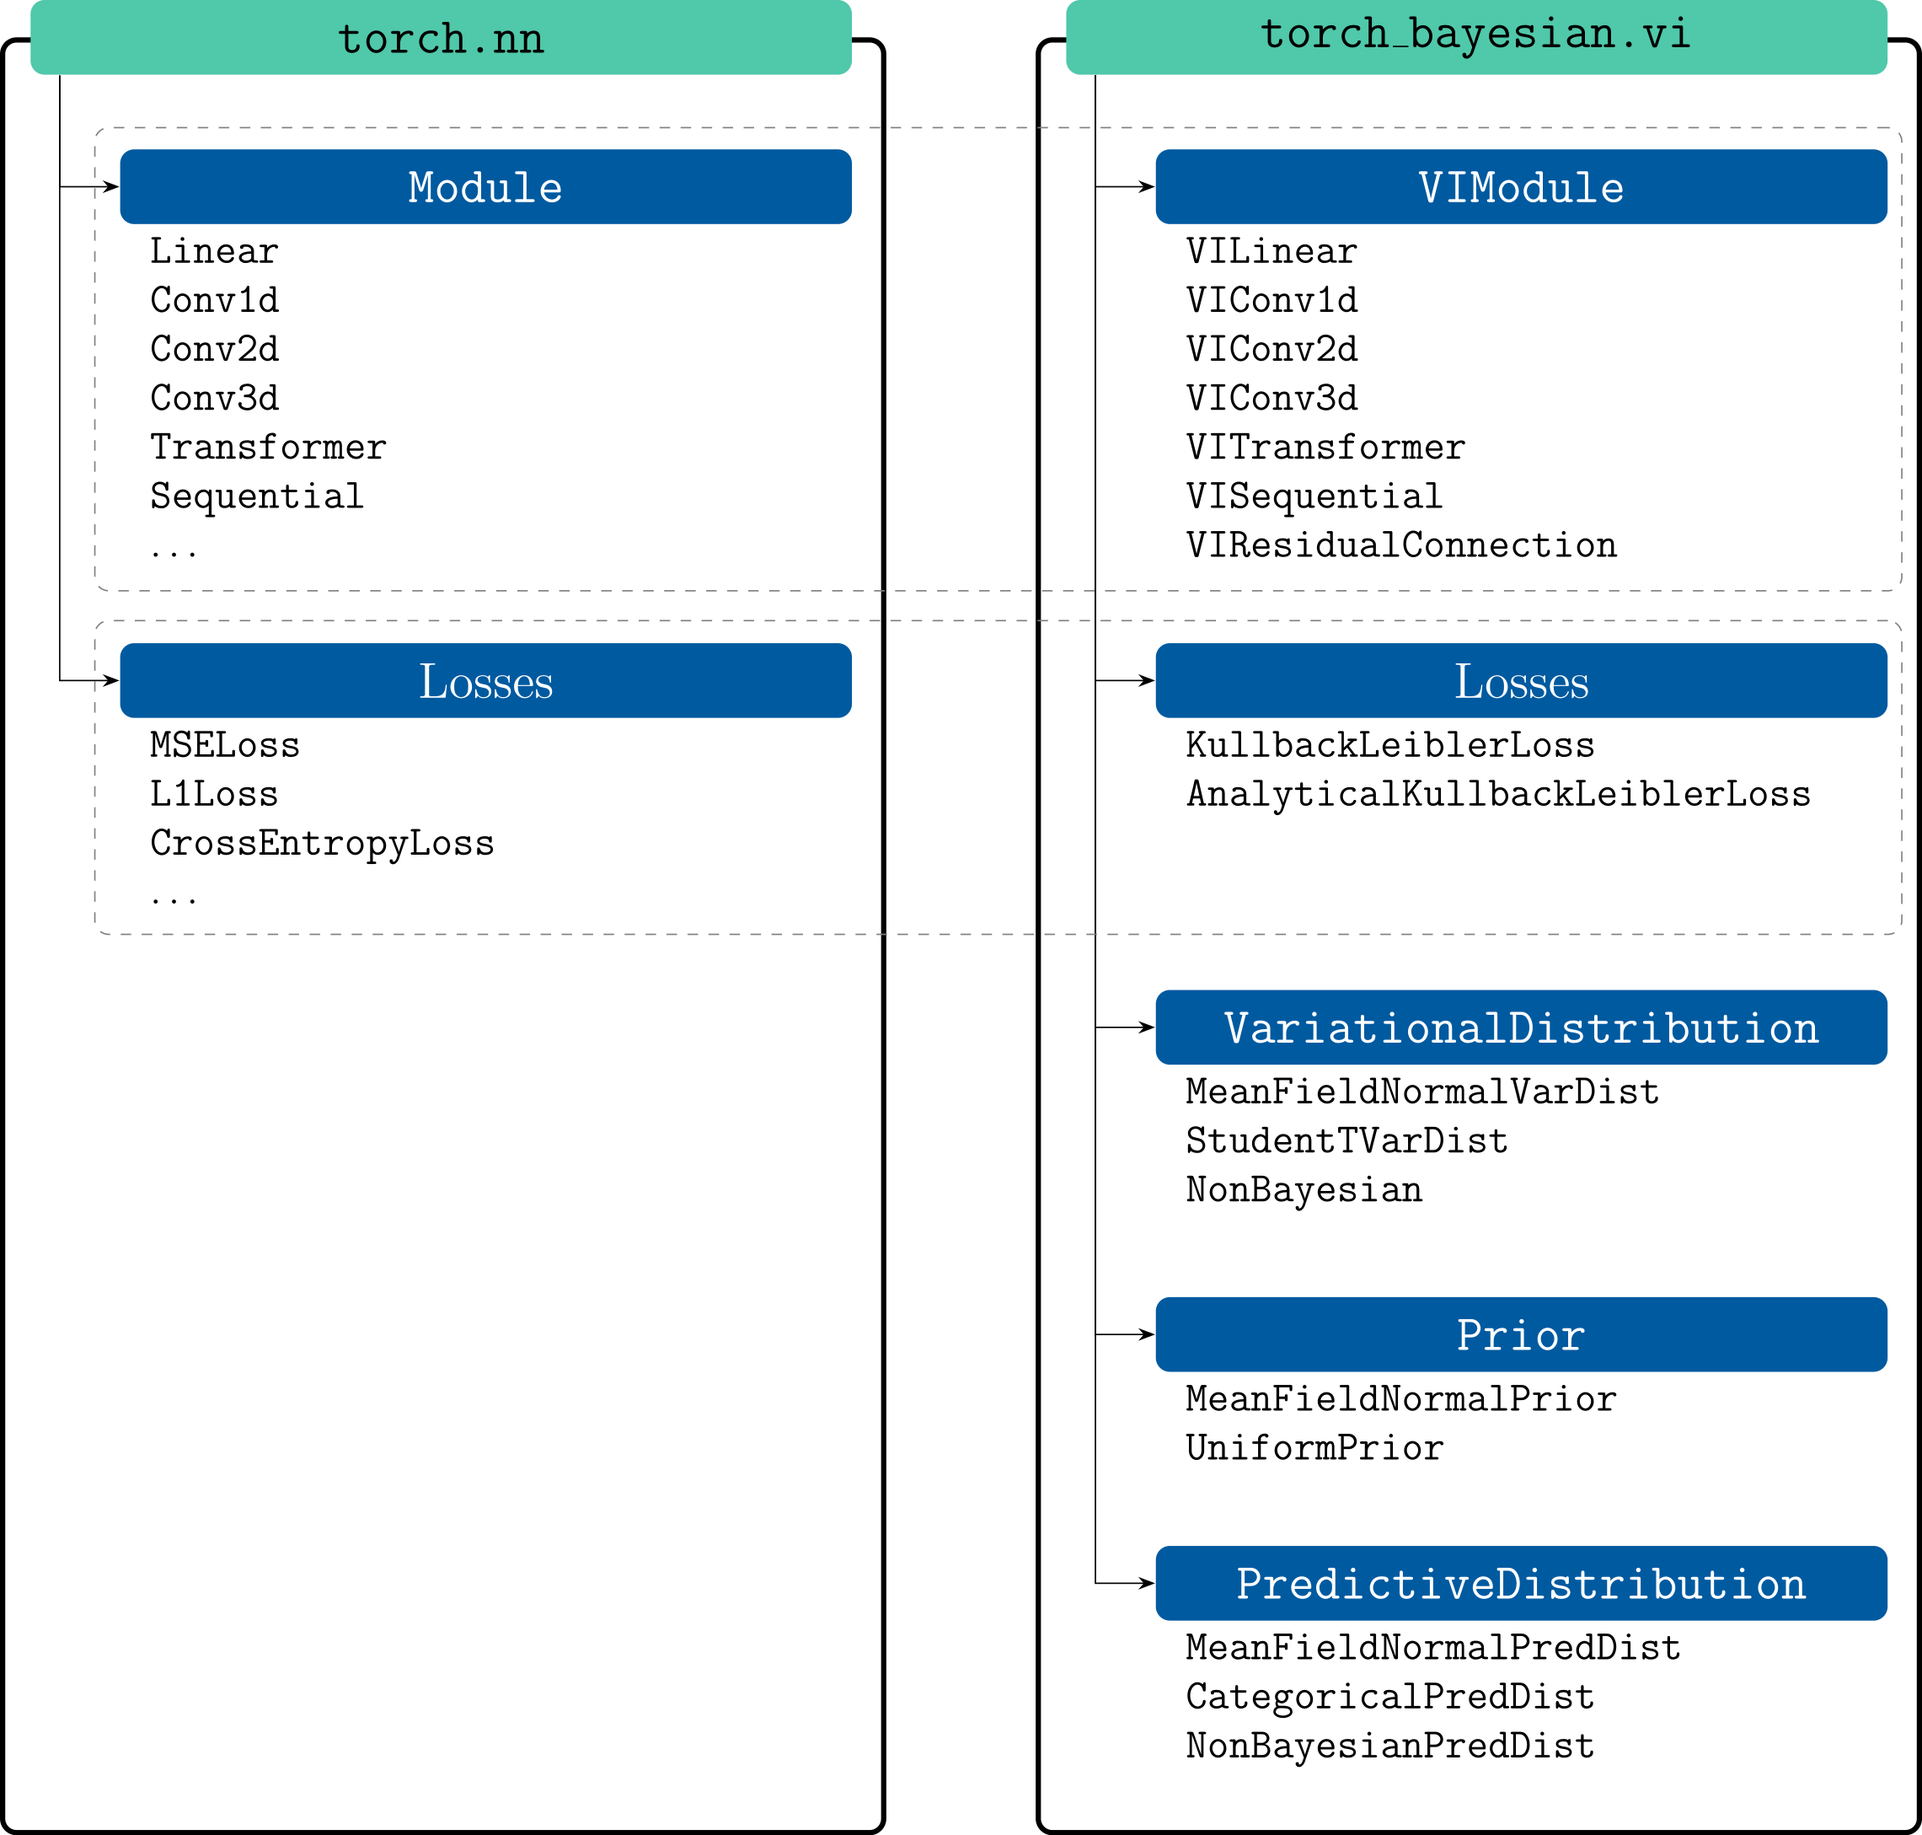
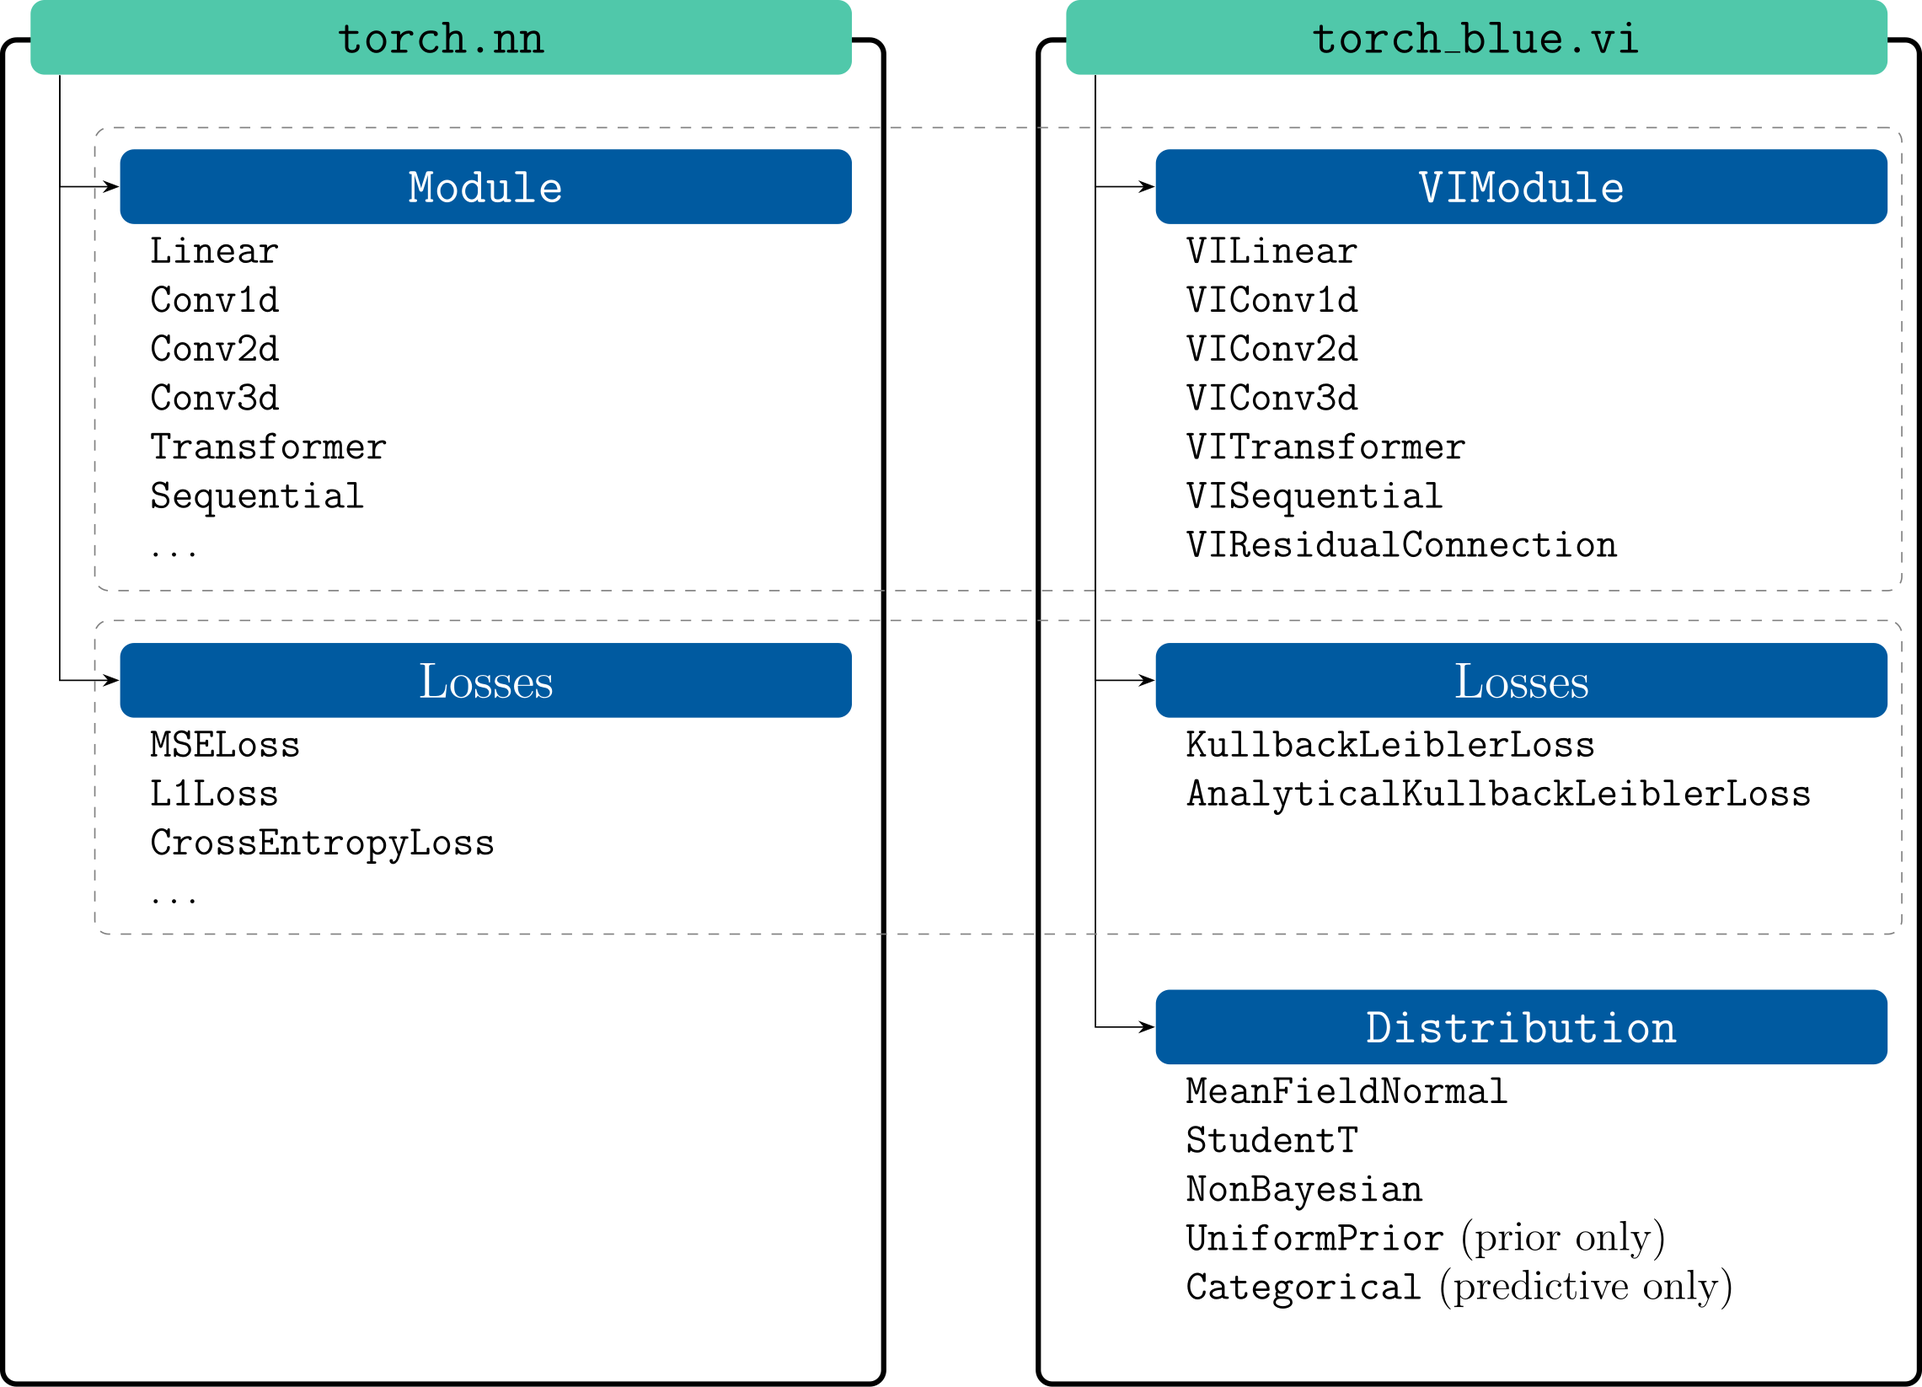
Refactor dev branch and paper to new name (#40)
* Refactor from torch_bayesian to torch_blue

* Re-add paper

diff --git a/docs/source/conf.py b/docs/source/conf.py
@@ -7,13 +7,13 @@
 import os
 import sys
 
-sys.path.insert(0, os.path.abspath("../../torch_bayesian"))
+sys.path.insert(0, os.path.abspath("../../torch_blue"))
 
 
 # -- Project information -----------------------------------------------------
 # https://www.sphinx-doc.org/en/master/usage/configuration.html#project-information
 
-project = "torch_bayesian"
+project = "torch_blue"
 copyright = "2025, RAI-SCC"
 author = "RAI-SCC"
 release = "0.9.0"
@@ -30,14 +30,14 @@ autodoc_type_aliases = {
     "torch.nn.common_types._size_1_t": "int | Tuple[int,]",
     "torch.nn.common_types._size_2_t": "int | Tuple[int, int]",
     "torch.nn.common_types._size_3_t": "int | Tuple[int, int, int]",
-    "torch_bayesian.vi.utils.common_types.VIReturn[torch.Tensor]": "torch.Tensor | Tuple[torch.Tensor, torch.Tensor]",
-    "torch_bayesian.vi.utils.common_types.VIReturn[Tuple[torch.Tensor, Optional[torch.Tensor]]]": "Tuple[torch.Tensor, Optional[torch.Tensor]] | Tuple[Tuple[torch.Tensor, torch.Tensor | None], torch.Tensor]",
-    "torch_bayesian.vi.utils.common_types.VIReturn[torch.nn.common_types._tensor_list_t]": "Union[torch.Tensor, List[torch.Tensor]] | Tuple[Union[torch.Tensor, List[torch.Tensor]], torch.Tensor]",
-    "torch_bayesian.vi.utils.common_types._vardist_any_t": "VariationalDistribution | List[VariationalDistribution]",
-    "torch_bayesian.vi.utils.common_types._prior_any_t": "Prior | List[Prior]",
-    "torch_bayesian.vi.utils.common_types._log_prob_return_format[torch.Tensor]": "Tuple[torch.Tensor, torch.Tensor]",
+    "torch_blue.vi.utils.common_types.VIReturn[torch.Tensor]": "torch.Tensor | Tuple[torch.Tensor, torch.Tensor]",
+    "torch_blue.vi.utils.common_types.VIReturn[Tuple[torch.Tensor, Optional[torch.Tensor]]]": "Tuple[torch.Tensor, Optional[torch.Tensor]] | Tuple[Tuple[torch.Tensor, torch.Tensor | None], torch.Tensor]",
+    "torch_blue.vi.utils.common_types.VIReturn[torch.nn.common_types._tensor_list_t]": "Union[torch.Tensor, List[torch.Tensor]] | Tuple[Union[torch.Tensor, List[torch.Tensor]], torch.Tensor]",
+    "torch_blue.vi.utils.common_types._vardist_any_t": "VariationalDistribution | List[VariationalDistribution]",
+    "torch_blue.vi.utils.common_types._prior_any_t": "Prior | List[Prior]",
+    "torch_blue.vi.utils.common_types._log_prob_return_format[torch.Tensor]": "Tuple[torch.Tensor, torch.Tensor]",
     "Ellipsis": "...",
-    "torch_bayesian.vi.base.": "torch_bayesian.vi.",
+    "torch_blue.vi.base.": "torch_blue.vi.",
     #    "torch.Tensor": "Tensor",
 }
 
@@ -57,7 +57,7 @@ extensions = [
 ]
 
 autoapi_type = "python"
-autoapi_dirs = ["../../torch_bayesian/"]
+autoapi_dirs = ["../../torch_blue/"]
 autoapi_ignore = ["*/tests/*"]  # , "*[!_].py"]
 autoapi_template_dir = "_templates/"
 autoapi_own_page_level = "class"
@@ -125,7 +125,7 @@ def setup(sphinx):
 
 # apidoc_modules = [
 #    {
-#        "path": "../../torch_bayesian/",
+#        "path": "../../torch_blue/",
 #        "destination": "../source",
 #        "module_first": False,
 #        "implicit_namespaces": False,

diff --git a/torch_blue/vi/utils/common_types.py b/torch_blue/vi/utils/common_types.py
@@ -14,19 +14,19 @@ class VIkwargs(TypedDict):
     """
     Common keyword arguments for most VIModules.
 
-    Most :class:`~torch_bayesian.vi.VIModule` accept these as keyword arguments. Unless
+    Most :class:`~torch_blue.vi.VIModule` accept these as keyword arguments. Unless
     specified otherwise, they use the defaults below.
 
     This class is only used for documentation and type hinting.
 
     Parameters
     ----------
-    variational_distribution: Union[Distribution, List[Distribution]], default: :class:`MeanFieldNormal()<torch_bayesian.vi.distributions.MeanFieldNormal>`
-        Either one :class:`torch_bayesian.vi.distributions.Distribution` ,
+    variational_distribution: Union[Distribution, List[Distribution]], default: :class:`MeanFieldNormal()<torch_blue.vi.distributions.MeanFieldNormal>`
+        Either one :class:`torch_blue.vi.distributions.Distribution` ,
         which is used for all random variables, or a list of them, one for each random
         variable. This specifies the assumed parametrization of the weight distribution.
-    prior: Union[Distribution, List[Distribution]], default: :class:`MeanFieldNormal()<torch_bayesian.vi.distributions.MeanFieldNormal>`
-        Either one :class:`~torch_bayesian.vi.distributions.Distribution` , which is
+    prior: Union[Distribution, List[Distribution]], default: :class:`MeanFieldNormal()<torch_blue.vi.distributions.MeanFieldNormal>`
+        Either one :class:`~torch_blue.vi.distributions.Distribution` , which is
         used for all random variables, or a list of them, one for each random variable.
         This specifies the previous knowledge about the weight distribution.
     rescale_prior: bool, default: False
@@ -39,7 +39,7 @@ class VIkwargs(TypedDict):
     return_log_probs: bool, default: True
         If ``True`` the model forward pass returns the log probability of the sampled
         weights. This is required for use of
-        :class:`~torch_bayesian.vi.KullbackLeiblerLoss`.
+        :class:`~torch_blue.vi.KullbackLeiblerLoss`.
     device: Optional[torch.device], default: None
         The torch.device on which the module should be stored.
     dtype: Optional[torch.dtype], default: None

diff --git a/torch_blue/vi/distributions/normal.py b/torch_blue/vi/distributions/normal.py
@@ -5,7 +5,7 @@ import torch
 from torch import Tensor
 from torch.nn import init
 
-from torch_bayesian.vi import _globals
+from torch_blue.vi import _globals
 
 from .base import Distribution
 
@@ -86,7 +86,7 @@ class MeanFieldNormal(Distribution):
         standard deviation. All Tensors must have the same shape as `sample`.
 
         This calculation is affected by :data:`_globals._USE_NORM_CONSTANTS`, which can
-        be set with :func:`~torch_bayesian.vi.utils.use_norm_constants`.
+        be set with :func:`~torch_blue.vi.utils.use_norm_constants`.
 
         Parameters
         ----------
@@ -122,7 +122,7 @@ class MeanFieldNormal(Distribution):
         All Tensors have the same shape.
 
         This calculation is affected by :data:`_globals._USE_NORM_CONSTANTS`, which can
-        be set with :func:`~torch_bayesian.vi.utils.use_norm_constants`.
+        be set with :func:`~torch_blue.vi.utils.use_norm_constants`.
 
         Parameters
         ----------
@@ -152,7 +152,7 @@ class MeanFieldNormal(Distribution):
         variable: str
             The name of the random variable to reset as given by
             :attr:`variational_parameters` of the associated
-            :class:`~torch_bayesian.vi.variational_distributions.VariationalDistribution`.
+            :class:`~torch_blue.vi.distributions.Distribution`.
 
         Returns
         -------
@@ -195,7 +195,7 @@ class MeanFieldNormal(Distribution):
         Calculate the log probability of reference given the predictive mean and standard deviation.
 
         This calculation is affected by :data:`_globals._USE_NORM_CONSTANTS`, which can
-        be set with :func:`~torch_bayesian.vi.utils.use_norm_constants`.
+        be set with :func:`~torch_blue.vi.utils.use_norm_constants`.
 
         Parameters
         ----------

diff --git a/torch_blue/vi/distributions/base.py b/torch_blue/vi/distributions/base.py
@@ -246,7 +246,7 @@ class Distribution(metaclass=PostInitCallMeta):
 
         To enable the ``prior_initialization`` functionality, the class must implement
         this method. It initializes the parameters for one random variable of a
-        :class:`~torch_bayesian.vi.VIModule`, whose variational parameters are
+        :class:`~torch_blue.vi.VIModule`, whose variational parameters are
         supported by the prior, to the prior values. To that end the name of the random
         variable to initialize is passed to the method.
 
@@ -265,7 +265,7 @@ class Distribution(metaclass=PostInitCallMeta):
         variable: str
             The name of the random variable to reset as given by
             :attr:`variational_parameters` of the associated
-            :class:`~torch_bayesian.vi.variational_distributions.VariationalDistribution`.
+            :class:`~torch_blue.vi.distributions.Distribution`.
 
         Returns
         -------
@@ -368,8 +368,8 @@ class Distribution(metaclass=PostInitCallMeta):
         """
         Compare distribution parameters to another set of parameters.
 
-        Typically, this is used to compare to the distribution parameters of a
-        :class:`~torch_bayesian.vi.priors.Prior`.
+        Typically, this is used to compare to the distribution parameters of another
+        :class:`~torch_blue.vi.distributions.Distributions`.
 
         Parameters
         ----------

diff --git a/torch_blue/vi/base.py b/torch_blue/vi/base.py
@@ -62,7 +62,7 @@ class VIModule(Module, metaclass=PostInitCallMeta):
     However, it has the added attribute :attr:`log_probs` where the log probs are
     stored. This is used by losses, therefore it is easiest to wrap all operations into
     a :class:`~.VIModule` and feed the output directly into a loss function. Classical
-    losses will treat it like a Tensor and `torch_bayesian` losses can use the log prob
+    losses will treat it like a Tensor and `torch_blue` losses can use the log prob
     information. If the model has multiple output Tensors, each will contain the full
     log prob information.
 
@@ -85,7 +85,7 @@ class VIModule(Module, metaclass=PostInitCallMeta):
     is called without arguments. In this setting the methods :meth:`get_log_probs`,
     :meth:`get_variational_parameters`, :meth:`reset_variational_parameters`, and
     :meth:`sample_variable` cannot be used and raise
-    :exc:`~torch_bayesian.vi.utils.NoVariablesError`.
+    :exc:`~torch_blue.vi.utils.NoVariablesError`.
 
     Any weight matrix in a BNN may require multiple parameters (e.g. mean and std).
     These are stored in separate attributes and therefore cannot be created without

diff --git a/torch_blue/vi/distributions/quiet.py b/torch_blue/vi/distributions/quiet.py
@@ -5,7 +5,7 @@ import torch
 from torch import Tensor
 from torch.nn import init
 
-from torch_bayesian.vi import _globals
+from torch_blue.vi import _globals
 
 from ..utils import init as vi_init
 from .base import Distribution
@@ -71,7 +71,7 @@ class BasicQuietPrior(Distribution):
         All Tensors have the same shape.
 
         This calculation is affected by :data:`_globals._USE_NORM_CONSTANTS`, which can
-        be set with :func:`~torch_bayesian.vi.utils.use_norm_constants`.
+        be set with :func:`~torch_blue.vi.utils.use_norm_constants`.
 
         Parameters
         ----------
@@ -109,7 +109,7 @@ class BasicQuietPrior(Distribution):
         variable: str
             The name of the random variable to reset as given by
             :attr:`variational_parameters` of the associated
-            :class:`~torch_bayesian.vi.variational_distributions.VariationalDistribution`.
+            :class:`~torch_blue.vi.distributions.Distribution`.
 
         Returns
         -------

diff --git a/tests/test_vi/test_analytical_kl_loss.py b/tests/test_vi/test_analytical_kl_loss.py
@@ -6,7 +6,7 @@ import pytest
 import torch
 from torch import Tensor
 
-from torch_bayesian.vi import (
+from torch_blue.vi import (
     AnalyticalKullbackLeiblerLoss,
     KullbackLeiblerLoss,
     KullbackLeiblerModule,
@@ -14,18 +14,18 @@ from torch_bayesian.vi import (
     VIModule,
     VISequential,
 )
-from torch_bayesian.vi.analytical_kl_loss import (
+from torch_blue.vi.analytical_kl_loss import (
     NonBayesianDivergence,
     NormalNormalDivergence,
     UniformNormalDivergence,
 )
-from torch_bayesian.vi.distributions import (
+from torch_blue.vi.distributions import (
     Distribution,
     MeanFieldNormal,
     NonBayesian,
     UniformPrior,
 )
-from torch_bayesian.vi.utils import UnsupportedDistributionError, use_norm_constants
+from torch_blue.vi.utils import UnsupportedDistributionError, use_norm_constants
 
 
 def test_klmodule(device: torch.device) -> None:

diff --git a/tests/test_vi/test_base.py b/tests/test_vi/test_base.py
@@ -8,9 +8,9 @@ from torch import Tensor
 from torch._C._functorch import get_unwrapped
 from torch.nn import Module
 
-from torch_bayesian.vi import VIModule, VIReturn
-from torch_bayesian.vi.distributions import Distribution
-from torch_bayesian.vi.utils import NoVariablesError, UnsupportedDistributionError
+from torch_blue.vi import VIModule, VIReturn
+from torch_blue.vi.distributions import Distribution
+from torch_blue.vi.utils import NoVariablesError, UnsupportedDistributionError
 
 
 def test_expand_to_samples(device: torch.device) -> None:
@@ -333,7 +333,7 @@ def test_get_log_probs(device: torch.device) -> None:
 
 def test_log_prob_setting(device: torch.device) -> None:
     """Test setting of _return_log_probs with VIModule.return_log_probs."""
-    from torch_bayesian.vi import VILinear
+    from torch_blue.vi import VILinear
 
     in_features = 3
     out_features = 5

diff --git a/torch_blue/vi/utils/vi_return.py b/torch_blue/vi/utils/vi_return.py
@@ -11,9 +11,9 @@ class VIReturn(Tensor):
     purposes, but provides the optional attribute :attr:`~log_probs`. However, it should
     not be used as replacement since certain pytorch operation will lose the log prob
     information. It is almost exclusively used as the return formate for
-    :class:`~torch_bayesian.vi.VIModule`s. This allows the output to be treated like a
+    :class:`~torch_blue.vi.VIModule`s. This allows the output to be treated like a
     :class:`torch.Tensor`, but still provide the log prob information when needed.
-    `torch_bayesian` losses may require this format as input.
+    `torch_blue` losses may require this format as input.
     """
 
     log_probs: Optional[Tensor] = None

diff --git a/tests/test_vi/test_kl_loss.py b/tests/test_vi/test_kl_loss.py
@@ -3,9 +3,9 @@ from warnings import filterwarnings
 import torch
 from pytest import raises, warns
 
-from torch_bayesian.vi import KullbackLeiblerLoss, VIReturn
-from torch_bayesian.vi.distributions import MeanFieldNormal, UniformPrior
-from torch_bayesian.vi.utils import UnsupportedDistributionError
+from torch_blue.vi import KullbackLeiblerLoss, VIReturn
+from torch_blue.vi.distributions import MeanFieldNormal, UniformPrior
+from torch_blue.vi.utils import UnsupportedDistributionError
 
 
 def test_kl_loss(device: torch.device) -> None:

diff --git a/torch_blue/vi/distributions/categorical.py b/torch_blue/vi/distributions/categorical.py
@@ -15,8 +15,8 @@ class Categorical(Distribution):
     normalized to one across classes. The last dimension of the model output is
     interpreted as the number of classes.
 
-    When used with :class:`~torch_bayesian.vi.KullbackLeiblerLoss` or
-    :class:`~torch_bayesian.vi.AnalyticalKullbackLeiblerLoss` this distribution
+    When used with :class:`~torch_blue.vi.KullbackLeiblerLoss` or
+    :class:`~torch_blue.vi.AnalyticalKullbackLeiblerLoss` this distribution
     produces a loss related to cross-entropy loss.
 
     Parameters

diff --git a/tests/test_vi/test_transformer.py b/tests/test_vi/test_transformer.py
@@ -6,7 +6,7 @@ from pytest import mark, raises
 from torch import Tensor, nn
 from torch.nn import functional as F  # noqa: N812
 
-from torch_bayesian.vi import (
+from torch_blue.vi import (
     VILinear,
     VIModule,
     VIMultiheadAttention,
@@ -16,7 +16,7 @@ from torch_bayesian.vi import (
     VITransformerEncoder,
     VITransformerEncoderLayer,
 )
-from torch_bayesian.vi.distributions import Distribution, MeanFieldNormal
+from torch_blue.vi.distributions import Distribution, MeanFieldNormal
 
 
 class Filter(VIModule):
